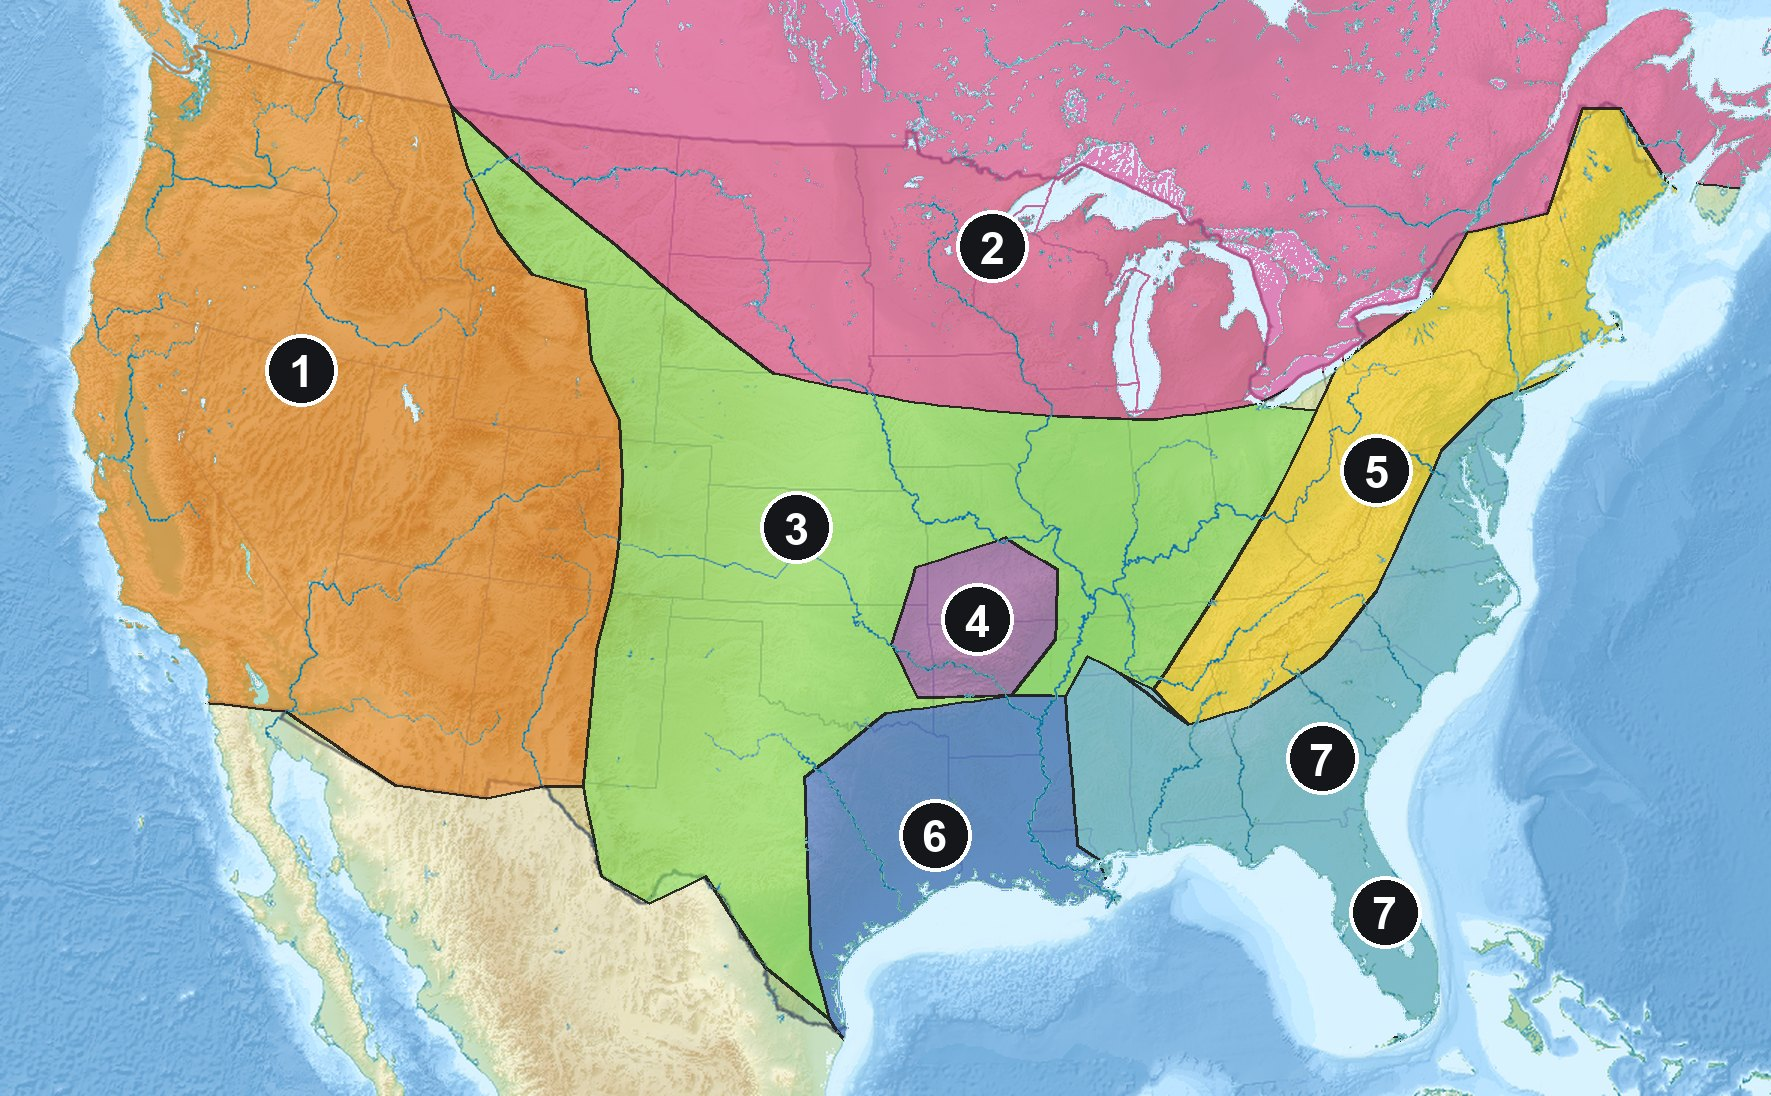
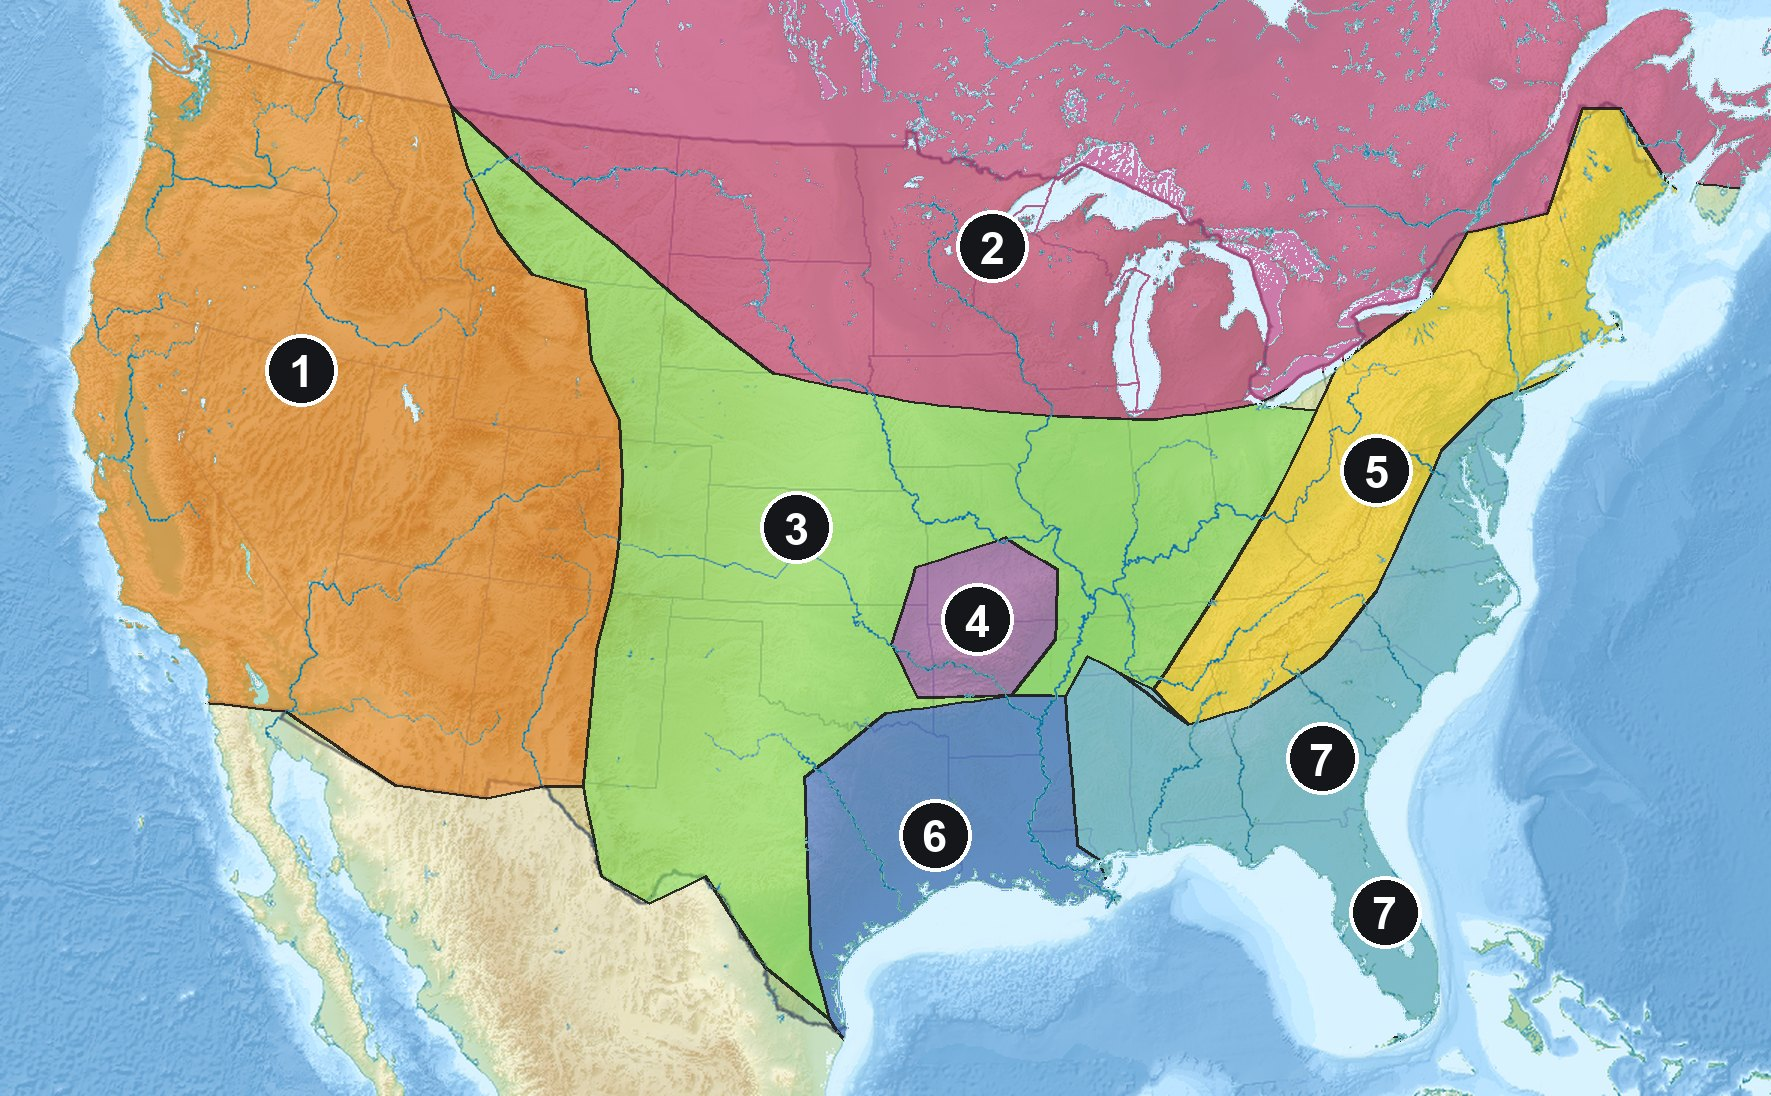
Kanadischer Schild: dunkleres Rosa für besseren Kontrast
Claude-Session: https://claude.ai/code/session_01C7SpNGSq6GY2EtMz2T5xsm

Changed region(s): [[0.7143, 0.2172, 0.7453, 0.2482]]

diff --git a/index.html b/index.html
@@ -317,7 +317,7 @@
     <h2>Naturräume</h2>
     <div class="card">
       <div class="leg"><span class="nr" style="background:#e67e22;color:#0d0f12">1</span><span><b style="color:var(--ink)">Intermontane Becken und Plateaus</b><br><span class="m">der ganze Westen bis zu den Rocky Mountains: Gebirgsketten mit trockenen Becken und Hochflächen dazwischen (Kordilleren: Küstengebirge, Sierra Nevada, Great Basin, Colorado-Plateau, Rocky Mountains)</span></span></div>
-      <div class="leg"><span class="nr" style="background:#d6338a;color:#ffffff">2</span><span><b style="color:var(--ink)">Kanadischer Schild</b><br><span class="m">der Norden rund um die Großen Seen bis weit nach Kanada: altes, abgetragenes Gestein, viele Seen</span></span></div>
+      <div class="leg"><span class="nr" style="background:#b8236f;color:#ffffff">2</span><span><b style="color:var(--ink)">Kanadischer Schild</b><br><span class="m">der Norden rund um die Großen Seen bis weit nach Kanada: altes, abgetragenes Gestein, viele Seen</span></span></div>
       <div class="leg"><span class="nr" style="background:#7ed957;color:#0d0f12">3</span><span><b style="color:var(--ink)">Zentrales Tiefland</b><br><span class="m">flaches, weites Land zwischen Rocky Mountains und Appalachen (mit den Great Plains), offen nach Nord und Süd</span></span></div>
       <div class="leg"><span class="nr" style="background:#8e44ad;color:#ffffff">4</span><span><b style="color:var(--ink)">Zentrales Hochland</b><br><span class="m">kleines Bergland mitten im Tiefland (Ozark-Plateau)</span></span></div>
       <div class="leg"><span class="nr" style="background:#f1c40f;color:#0d0f12">5</span><span><b style="color:var(--ink)">Appalachen</b><br><span class="m">altes, niedriges Mittelgebirge im Osten, parallel zur Küste</span></span></div>
